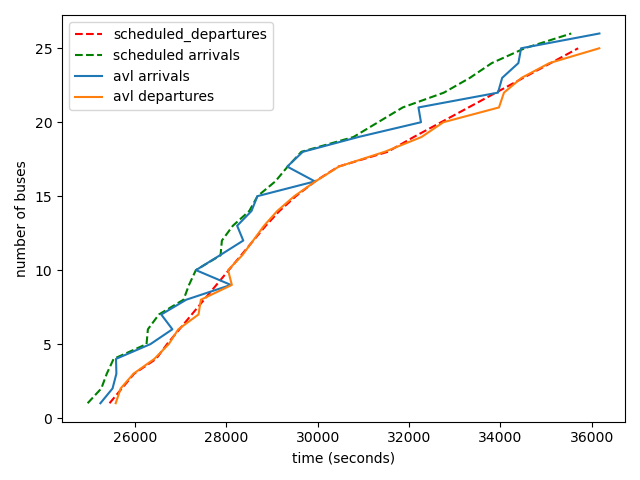
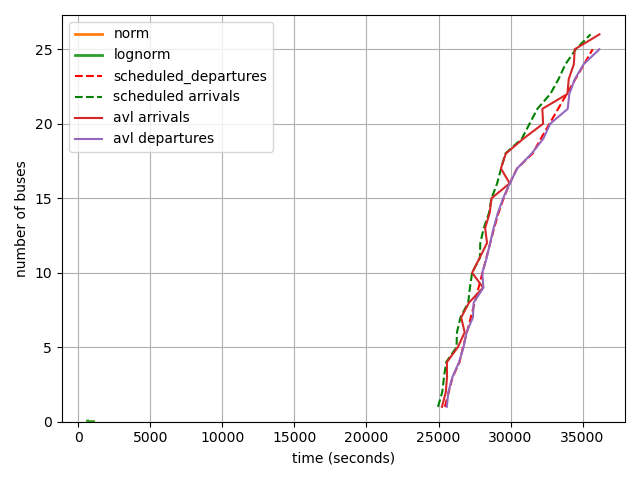
outbound direction

diff --git a/src/04_SIMULATION/input.py b/src/04_SIMULATION/input.py
@@ -9,27 +9,32 @@ from datetime import timedelta
 
 def extract_params(route_params=False, demand=False, validation=False):
     if route_params:
-        stops, link_times, ordered_trips, link_times_true = get_route(path_stop_times, SEC_FOR_TT_EXTRACT, END_TIME_SEC,
-                                                                      TIME_NR_INTERVALS, TIME_START_INTERVAL,
-                                                                      TIME_INTERVAL_LENGTH_MINS, DATES,
-                                                                      TRIP_WITH_FULL_STOP_PATTERN, path_ordered_dispatching,
-                                                                      path_sorted_daily_trips, path_stop_pattern,
-                                                                      START_TIME_SEC, FOCUS_START_TIME_SEC,
-                                                                      FOCUS_END_TIME_SEC)
-        get_outbound_travel_time(path_stop_times, START_TIME_SEC, END_TIME_SEC, DATES)
-        scheduled_departures = get_dispatching_from_gtfs(path_ordered_dispatching, ordered_trips)
+        stops, ordered_trips, link_times_true = get_route(path_stop_times, SEC_FOR_TT_EXTRACT, END_TIME_SEC,
+                                                          TIME_NR_INTERVALS, TIME_START_INTERVAL,
+                                                          TIME_INTERVAL_LENGTH_MINS, DATES,
+                                                          TRIP_WITH_FULL_STOP_PATTERN,
+                                                          path_ordered_dispatching,
+                                                          path_sorted_daily_trips, path_stop_pattern,
+                                                          START_TIME_SEC, FOCUS_START_TIME_SEC,
+                                                          FOCUS_END_TIME_SEC)
+        scheduled_departures_out, scheduled_arrivals_out = get_outbound_travel_time(path_stop_times,
+                                                                                    START_TIME_SEC,
+                                                                                    END_TIME_SEC, DATES)
+        scheduled_departures_in = get_dispatching_from_gtfs(path_ordered_dispatching, ordered_trips)
         get_scheduled_bus_availability(path_stop_times, DATES, START_TIME_SEC, END_TIME_SEC)
-        link_times_mean, link_times_sd, nr_time_dpoints = link_times
         link_times_mean_true, link_times_sd_true, nr_time_dpoints_true = link_times_true
         save(path_route_stops, stops)
         save(path_link_times_mean, link_times_mean_true)
         save(path_ordered_trips, ordered_trips)
-        save(path_departure_times_xtr, scheduled_departures)
+        save(path_departure_times_xtr, scheduled_departures_in)
+        save('in/xtr/rt_20-2019-09/scheduled_departures_outbound.pkl', scheduled_departures_out)
+        save('in/xtr/rt_20-2019-09/scheduled_arrivals_outbound.pkl', scheduled_arrivals_out)
     if demand:
         stops = load(path_route_stops)
         # arrival rates will be in pax/min
         arrival_rates, alight_fractions, alight_rates, dep_vol, odt = get_demand(path_od, stops, PREV_DEM_NR_INTERVALS,
-                                                                                 PREV_DEM_START_INTERVAL, DEM_NR_INTERVALS,
+                                                                                 PREV_DEM_START_INTERVAL,
+                                                                                 DEM_NR_INTERVALS,
                                                                                  DEM_INTERVAL_LENGTH_MINS)
         save(path_odt_xtr, odt)
         save(path_alight_rates, alight_rates)
@@ -46,12 +51,13 @@ def extract_params(route_params=False, demand=False, validation=False):
         trip_ids_arr = np.array(trip_ids)
         focus_trips = trip_ids_arr[
             (schedule_arr <= FOCUS_END_TIME_SEC) & (schedule_arr >= FOCUS_START_TIME_SEC)].tolist()
-        trip_times = get_trip_times(path_stop_times, focus_trips, DATES, START_TIME_SEC, END_TIME_SEC)
+        trip_times, departure_headway_in = get_trip_times(path_stop_times, focus_trips, DATES, START_TIME_SEC, END_TIME_SEC)
         save('in/xtr/rt_20-2019-09/trip_times.pkl', trip_times)
         dwell_times_mean, dwell_times_std, dwell_times_tot = get_dwell_times(path_stop_times, focus_trips, stops, DATES)
         save('in/xtr/rt_20-2019-09/dwell_times_mean.pkl', dwell_times_mean)
         save('in/xtr/rt_20-2019-09/dwell_times_std.pkl', dwell_times_std)
         save('in/xtr/rt_20-2019-09/dwell_times_tot.pkl', dwell_times_tot)
+        save('in/xtr/rt_20-2019-09/departure_headway_inbound.pkl', departure_headway_in)
         write_inbound_trajectories(path_stop_times, ordered_trips)
         load_profile = get_load_profile(path_stop_times, focus_trips, stops)
         save('in/xtr/rt_20-2019-09/load_profile.pkl', load_profile)
@@ -78,7 +84,6 @@ def get_params():
 
 
 extract_params(route_params=True, validation=True)
-
 
 STOPS, LINK_TIMES_MEAN, ORDERED_TRIPS, ARRIVAL_RATES, ALIGHT_FRACTIONS, SCHEDULED_DEPARTURES, INIT_HEADWAY, ODT = get_params()
 # scheduled_deps_arr = np.array(SCHEDULED_DEPARTURES)

diff --git a/src/04_SIMULATION/pre_process.py b/src/04_SIMULATION/pre_process.py
@@ -7,6 +7,7 @@ import matplotlib.pyplot as plt
 from copy import deepcopy
 import seaborn as sns
 from scipy.stats import norm, lognorm
+from fitter import Fitter
 
 
 def get_interval(t, len_i_mins):
@@ -147,9 +148,9 @@ def get_route(path_stop_times, start_time_extract, end_time, nr_intervals, start
             for key, value in ordered_trip_stop_pattern.items():
                 writer.writerow([key, value])
 
-    link_times_info = (mean_link_times, stdev_link_times, nr_dpoints_link_times)
+    # link_times_info = (mean_link_times, stdev_link_times, nr_dpoints_link_times)
     link_times_true_info = (mean_link_times_true, stdev_link_times_true, nr_dpoints_link_times_true)
-    return all_stops, link_times_info, trip_ids_simulation, link_times_true_info
+    return all_stops, trip_ids_simulation, link_times_true_info
 
 
 def get_demand(path, stops, nr_intervals, start_interval, new_nr_intervals, new_interval_length):
@@ -277,7 +278,7 @@ def get_trip_times(stop_times_path, focus_trips, dates, start_time, end_time,
     plt.xlabel('inbound departure headway (seconds)')
     plt.tight_layout()
     plt.savefig('in/vis/departure_hw.png')
-    return trip_times
+    return trip_times, departure_headway
 
 
 def get_dwell_times(stop_times_path, focus_trips, stops, dates):
@@ -438,12 +439,31 @@ def get_outbound_travel_time(path_stop_times, start_time, end_time, dates, toler
     plt.savefig('in/vis/outbound_dep_delay(short).png')
     plt.close()
 
+    dep_delay1_distribution = Fitter(dep_delay1, distributions=['lognorm', 'gamma'])
+    dep_delay1_distribution.fit()
+    print(dep_delay1_distribution.summary())
+    dep_delay1_params = dep_delay1_distribution.fitted_param['lognorm']
+
+    trip_time1_distribution = Fitter(trip_times1, distributions=['norm', 'lognorm'])
+    trip_time1_distribution.fit()
+    print(trip_time1_distribution.summary())
+    trip_time1_params = trip_time1_distribution.fitted_param['norm']
+
+    dep_delay2_distribution = Fitter(dep_delay2, distributions=['lognorm', 'gamma'])
+    dep_delay2_distribution.fit()
+    print(dep_delay2_distribution.summary())
+    dep_delay2_params = dep_delay2_distribution.fitted_param['lognorm']
+
+    trip_times2_distribution = Fitter(trip_times2, distributions=['norm', 'lognorm'])
+    trip_times2_distribution.fit()
+    print(trip_times2_distribution.summary())
+    trip_times2_params = trip_times2_distribution.fitted_param['norm']
     # print(f'outbound long trip times: \nmean:{np.mean(trip_times1)} \nmedian: {np.median(trip_times1)}\nstd: {np.std(trip_times1)}')
     # print(f'outbound short trip times: \nmean:{np.mean(trip_times2)} \nmedian: {np.median(trip_times2)}\nstd: {np.std(trip_times2)}')
     # print(f'arrival headway: \nmean:{np.mean(arrival_headway)} \nmedian: {np.median(arrival_headway)}\nstd: {np.std(arrival_headway)}')
     # print(f'dep delay (long): \nmean:{np.mean(dep_delay1)} \nmedian: {np.median(dep_delay1)}\nstd: {np.std(dep_delay1)}')
     # print(f'dep delay (short): \nmean:{np.mean(dep_delay2)} \nmedian: {np.median(dep_delay2)}\nstd: {np.std(dep_delay2)}')
-    return
+    return scheduled_departures, scheduled_arrivals
 
 
 def get_scheduled_bus_availability(path_stop_times, dates, start_time, end_time):

diff --git a/src/04_SIMULATION/file_paths.py b/src/04_SIMULATION/file_paths.py
@@ -32,7 +32,7 @@ path_link_dpoints = path_to_ins + 'xtr/' + dir_project + 'link_dpoints' + '.pkl'
 path_ordered_trips = path_to_ins + 'xtr/' + dir_project + 'link_dpoints' + '.pkl'
 path_arr_rates = path_to_ins + 'xtr/' + dir_project + 'arr_rates' + '.pkl'
 path_alight_fractions = path_to_ins + 'xtr/' + dir_project + 'alight_fractions' + '.pkl'
-path_departure_times_xtr = path_to_ins + 'xtr/' + dir_project + 'departure_times' + '.pkl'
+path_departure_times_xtr = path_to_ins + 'xtr/' + dir_project + 'departure_times_inbound' + '.pkl'
 path_alight_rates = path_to_ins + 'xtr/' + dir_project + 'alight_rates' + '.pkl'
 path_dep_volume = path_to_ins + 'xtr/' + dir_project + 'dep_vol' + '.pkl'
 path_odt_xtr = path_to_ins + 'xtr/' + dir_project + 'odt' + '.pkl'

diff --git a/src/04_SIMULATION/scratch.py b/src/04_SIMULATION/scratch.py
@@ -15,7 +15,6 @@ from scipy.stats import lognorm
 import seaborn as sns
 
 # extract
-print(datetime.strptime('07:33:30', ))
 
 # for generation of graphs you want:
 # dep_delay1_params = (0, 0)

diff --git a/src/04_SIMULATION/simulation_env.py b/src/04_SIMULATION/simulation_env.py
@@ -1,4 +1,3 @@
-import pandas as pd
 from input import *
 import numpy as np
 from scipy.stats import lognorm
